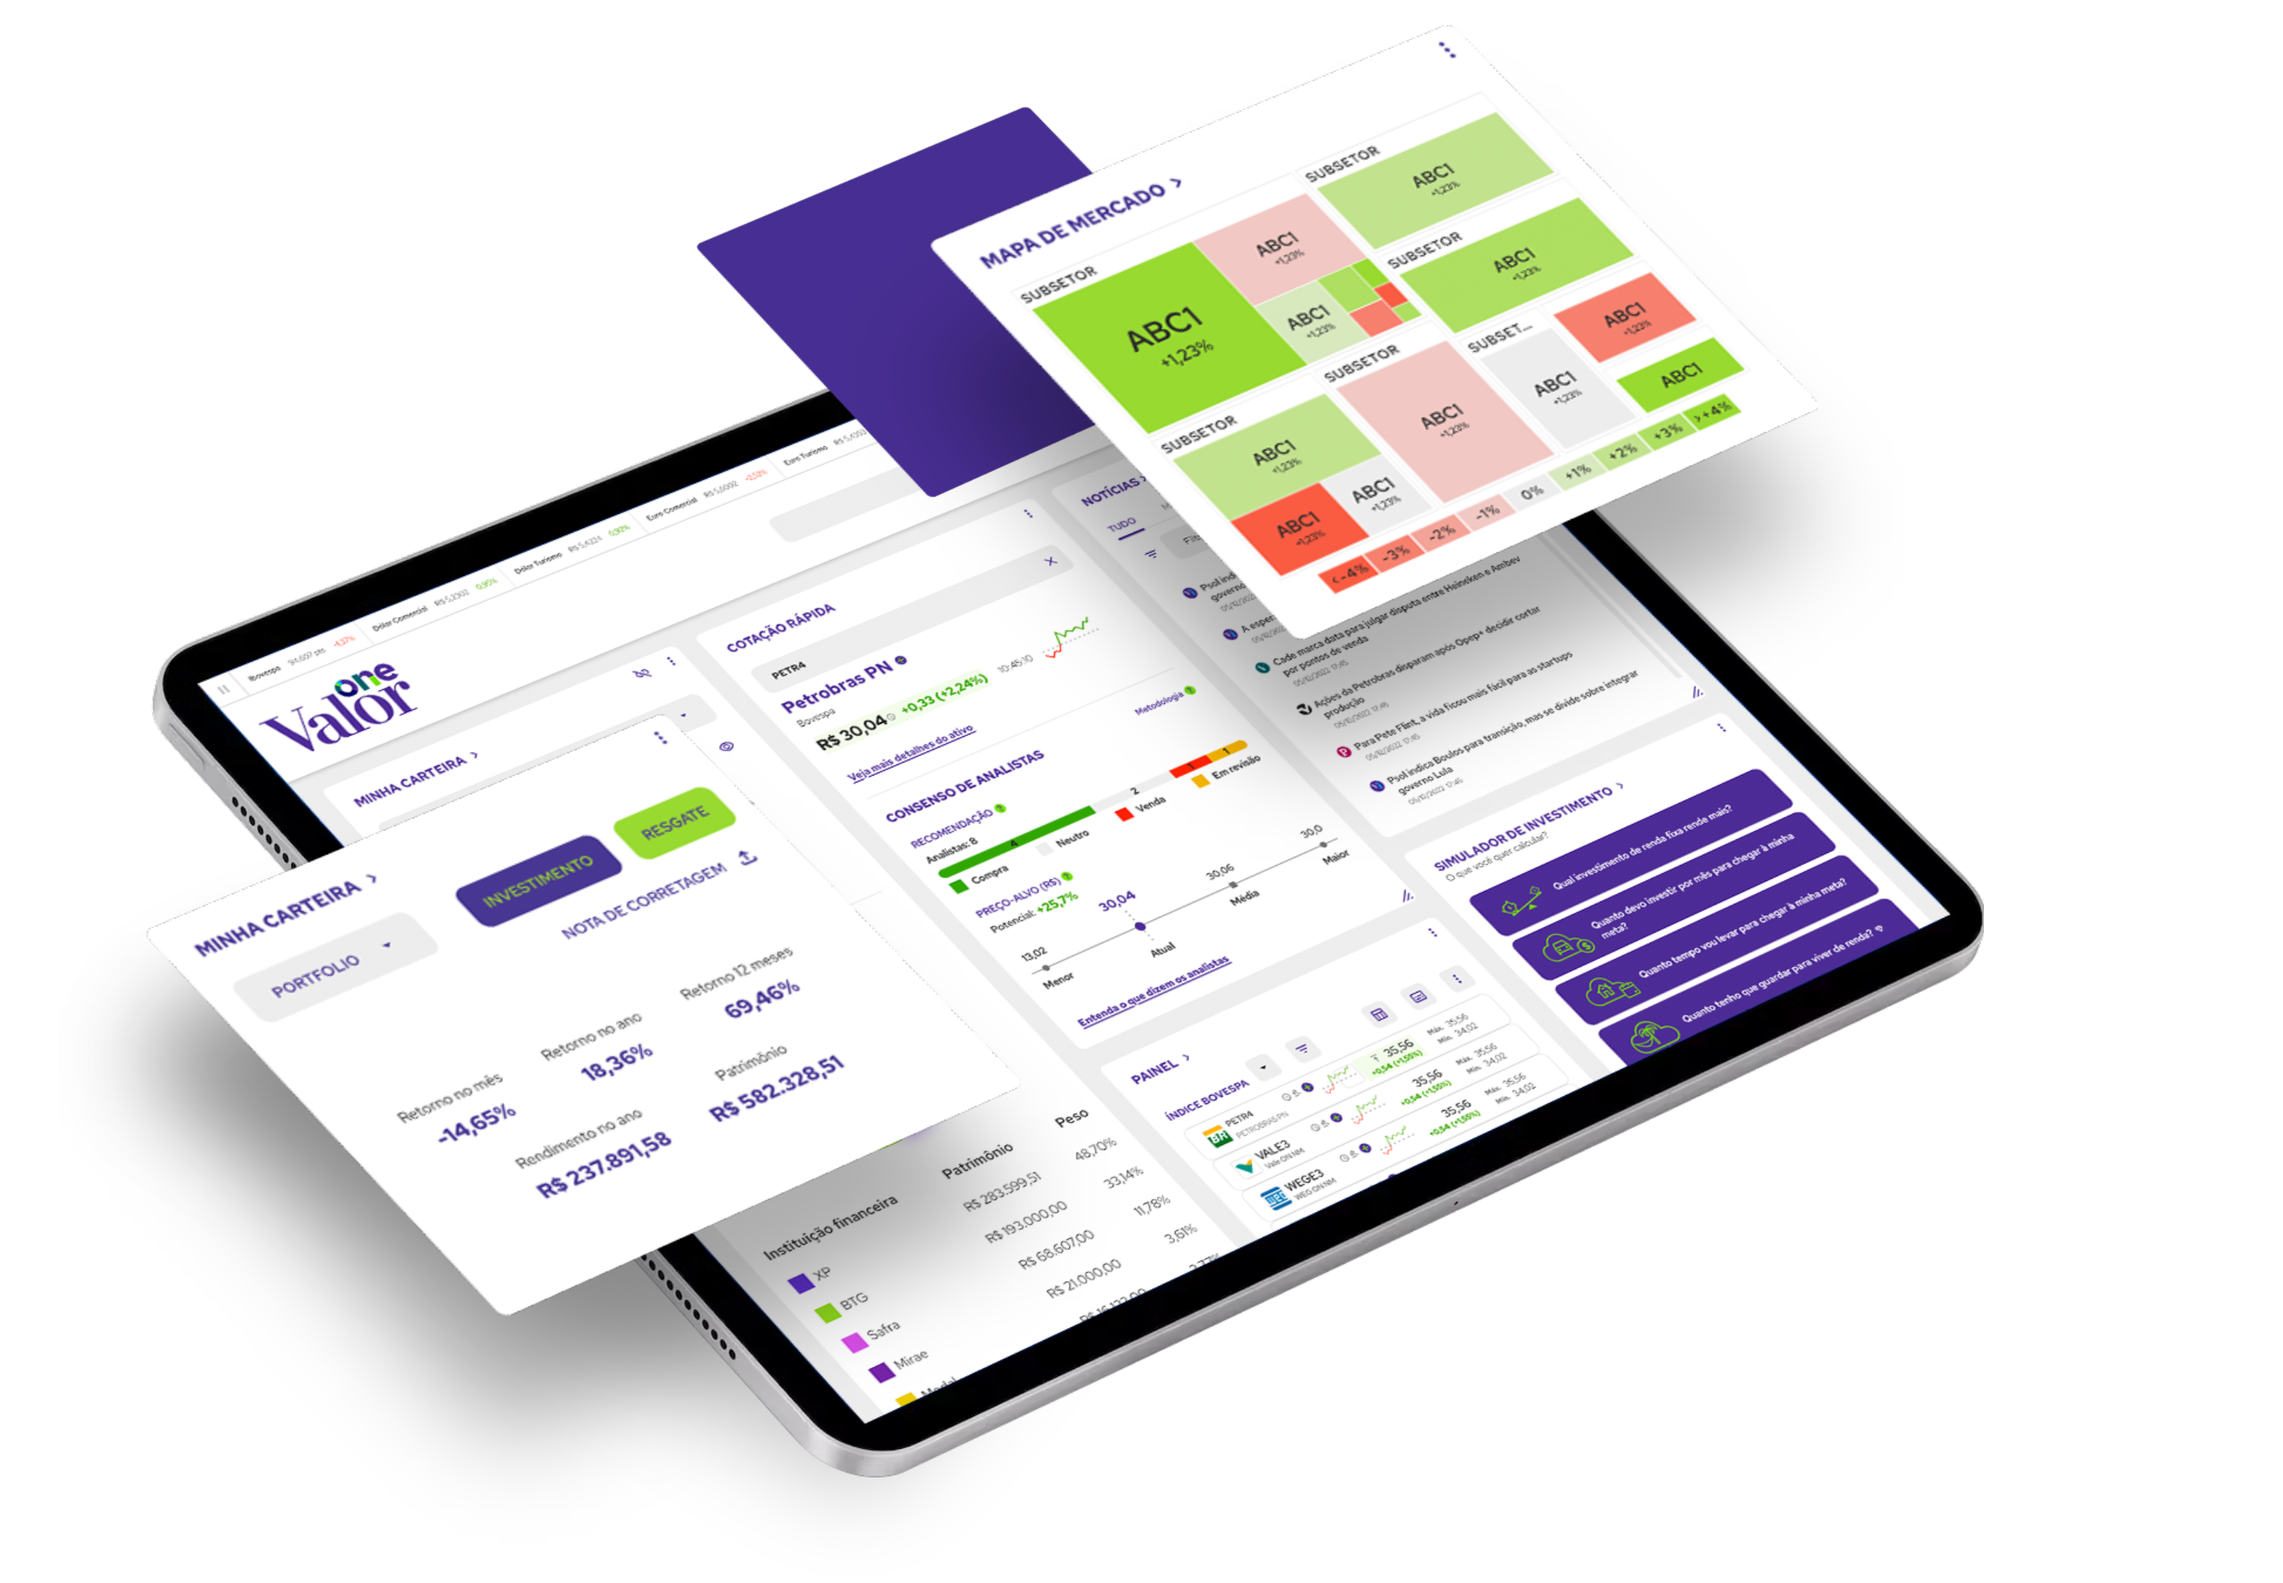
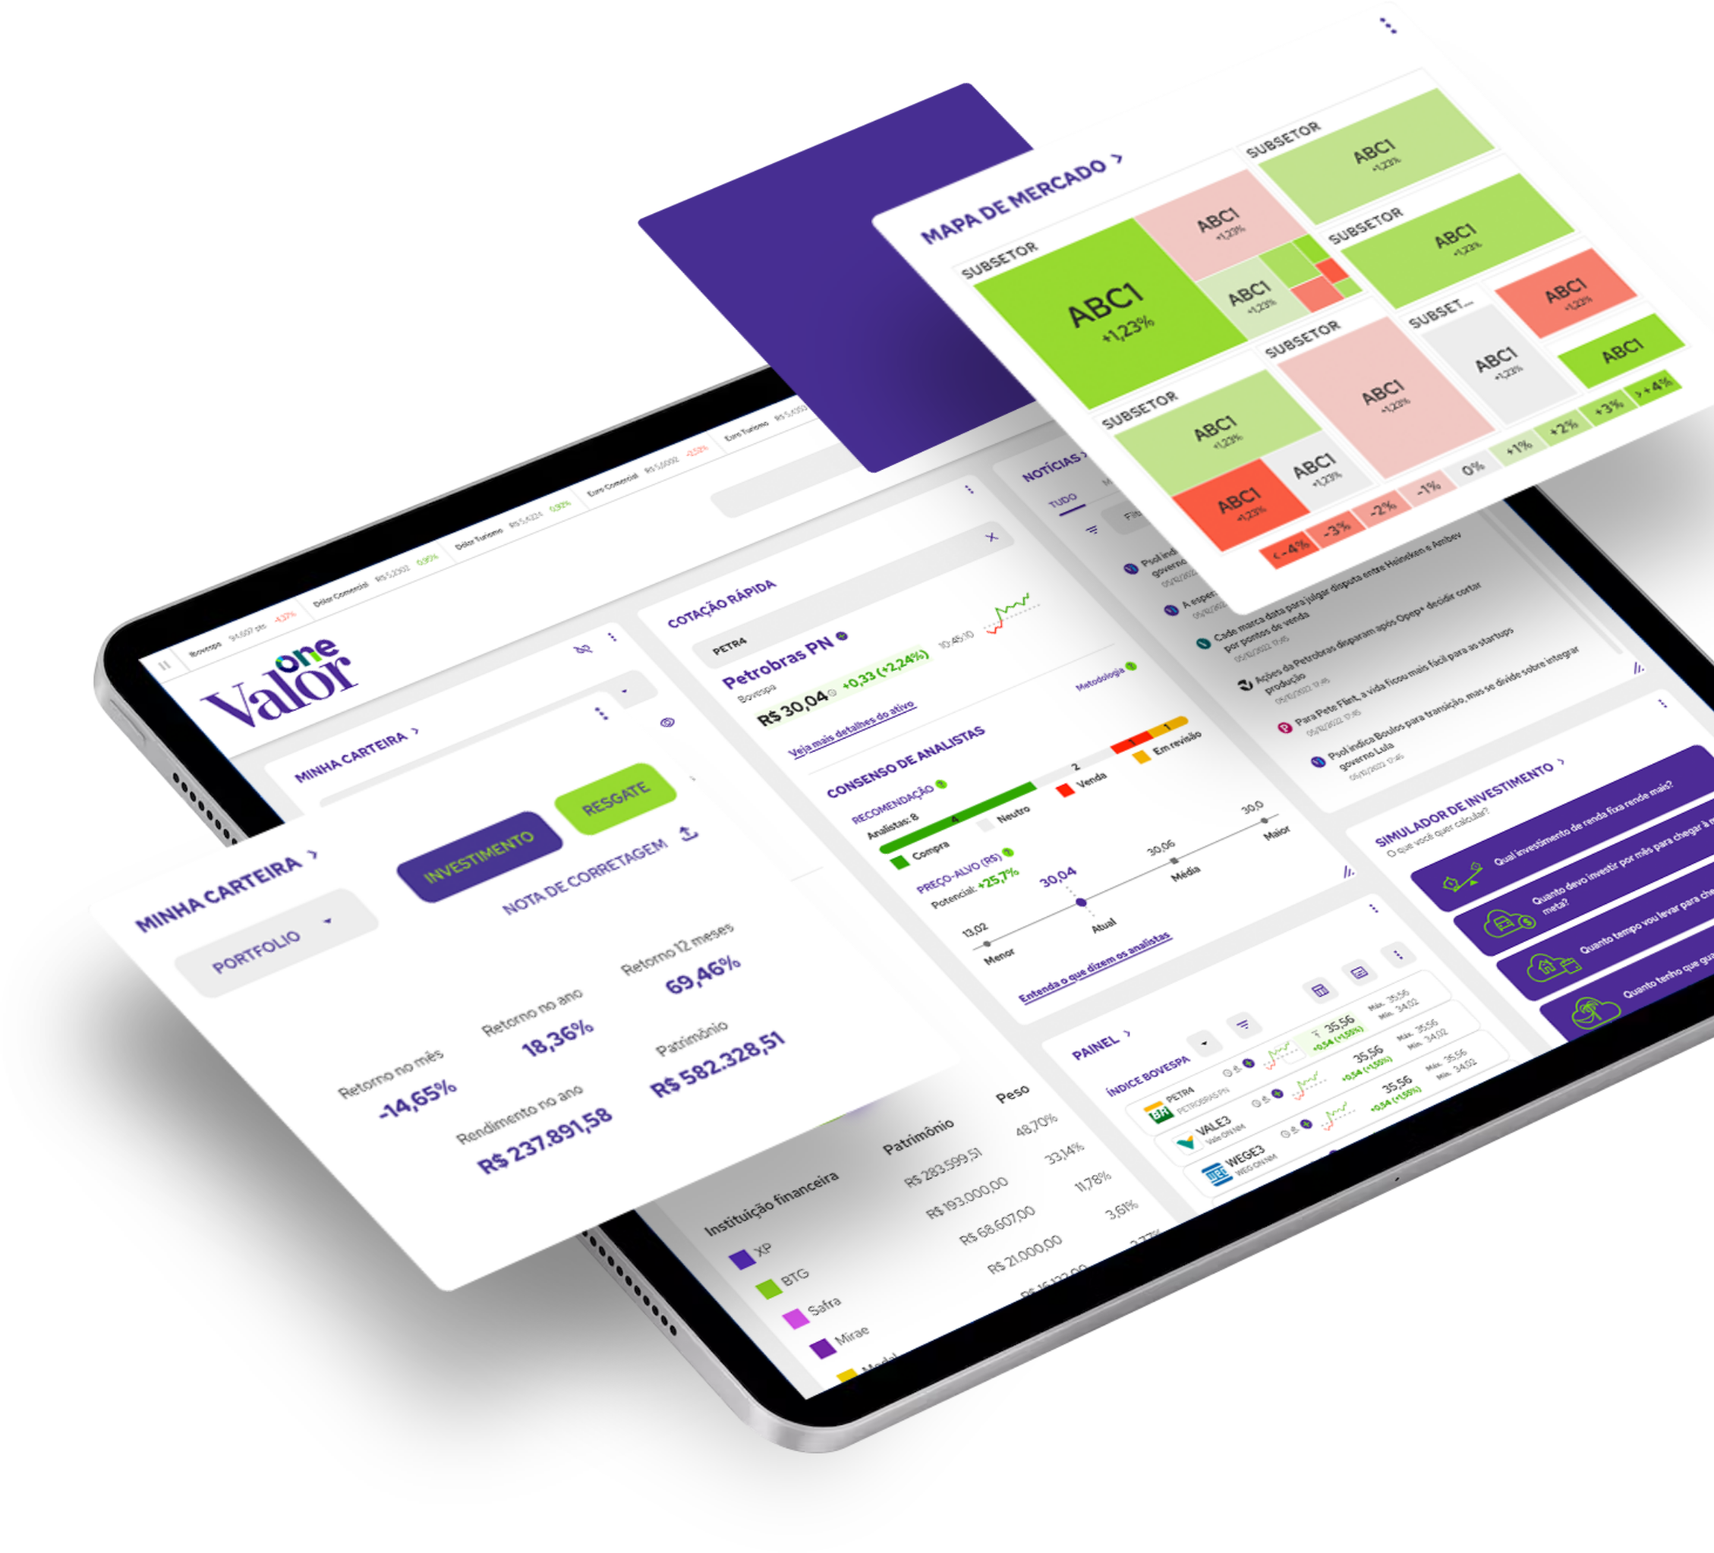
Ajustes Gerais

diff --git a/index.html b/index.html
@@ -101,8 +101,8 @@
             <p class="platform-discovery_experience">
                 Traga mais valor para seus investimentos!</p>
 
-            <!-- <img class="platform-tablet_img" src="./img/Grupo_58.png"
-                alt="Tablet representando a platform de investimentos ValorOne" id="img-interface"> -->
+            <img class="platform-tablet_img" src="./img/Grupo_58.png"
+                alt="Tablet representando a platform de investimentos ValorOne" id="img-interface">
 
             <!-- <p class="platform-discovery_call-meet">
                 QUERO CONHECER O VALOR ONE</p> -->
@@ -163,7 +163,7 @@
                     <i id="left" class="fa-solid fa-angle-left"></i>
                     <div class="cads-content caroucel dragging">
                         <div class="broad-card">
-                            <img class="broad-card_img" draggable="false" src="./img/icons/green/icon_01.svg"
+                            <img class="broad-card_img" draggable="false" src="./img/icons/Grupo471.png"
                                 alt="Cifrao com círculo em volta">
                             <p class="card-goes_top broad-card_txtHover">Simulação</p>
                             <p class="card-goes_middle broad-card_hover">de investimentos:</p>
@@ -176,7 +176,7 @@
                         </div>
 
                         <div class="broad-card">
-                            <img class="broad-card_img" draggable="false" src="./img/icons/green/icon_02.svg" alt="">
+                            <img class="broad-card_img" draggable="false" src="./img/icons/Grupo469.png" alt="">
                             <p class="card-plans_top broad-card_txtHover">Comparação</p>
                             <p class="card-plans_middle broad-card_hover">de ativos:</p>
                             <p class="card-plans_bottom broad-card_txtHover">Com poucos cliques no nosso painel de dados
@@ -191,7 +191,7 @@
 
                         <div class="broad-card">
                             <img class="broad-card_img img_graphic" draggable="false"
-                                src="./img/icons/green/icon_bars_01.svg"
+                                src="./img/icons/Grupo465.png"
                                 alt="Representação simples de gráfico ascendente">
                             <p class="card-progress_top broad-card_txtHover img_graphic">Relatórios e análises</p>
                             <p class="card-progress_middle broad-card_hover">de especialistas:</p>
@@ -205,7 +205,7 @@
                         </div>
 
                         <div class="broad-card">
-                            <img class="broad-card_img" draggable="false" src="./img/Grupo_138.png"
+                            <img class="broad-card_img" draggable="false" src="./img/icons/Grupo464.png"
                                 alt="Desenho simples de celular com balão de notificação">
                             <p class="card-objetives_top broad-card_txtHover">Consolidador de</p>
                             <p class="card-objetives_middle broad-card_hover">carteira inteligente:</p>
@@ -217,7 +217,7 @@
                             </a>
                         </div>
                         <div class="broad-card">
-                            <img class="broad-card_img" draggable="false" src="./img/Grupo_138.png"
+                            <img class="broad-card_img" draggable="false" src="./img/icons/Grupo459.png"
                                 alt="Desenho simples de celular com balão de notificação">
                             <p class="card-objetives_top broad-card_txtHover">Ambiente</p>
                             <p class="card-objetives_middle broad-card_hover">educacional:</p>
@@ -229,7 +229,7 @@
                             </a>
                         </div>
                         <div class="broad-card">
-                            <img class="broad-card_img" draggable="false" src="./img/Grupo_138.png"
+                            <img class="broad-card_img" draggable="false" src="./img/icons/Grupo468.png"
                                 alt="Desenho simples de celular com balão de notificação">
                             <p class="card-objetives_top broad-card_txtHover">Alertas estratégicos</p>
                             <p class="card-objetives_middle broad-card_hover"> & personalizados:</p>
@@ -242,7 +242,7 @@
                             </a>
                         </div>
                         <div class="broad-card last-card highlight-card">
-                            <img class="broad-card_img" draggable="false" src="./img/Grupo_138.png"
+                            <img class="broad-card_img" draggable="false" src="./img/icons/Grupo 495@2x.png"
                                 alt="Desenho simples de celular com balão de notificação">
                             <p class="card-objetives_top broad-card_txtHover">Carteiras </p>
                             <p class="card-objetives_middle broad-card_hover">recomendadas:</p>
@@ -269,7 +269,7 @@
                 <p class="card-news_middle">Trazemos o que é relevante para você e sua carteira.</p>
                 <p class="card-news_bottom">Uma preciosidade para o investidor que saber a importância da informação em
                     primeira mão, no computador e no celular</p>
-                <div class="background-img"></div>
+                <div class="background-img-news"></div>
             </div>
             <div class="background-container-first"></div>
         </div>
@@ -391,7 +391,7 @@
         <div class="slide-container">
             <div class="slide-content">
                 <div class="cards-wrapper caroucel_sell dragging_sell">
-                    <div class="plans-cards">
+                    <div class="plans-cards cards-1">
                         <div class="cards-container">
                             <div class="plans-cards_top">
                                 <div class="top_txt">

diff --git a/styles/plans.css b/styles/plans.css
@@ -1,8 +1,10 @@
 .plans-container {
+    position: relative;
     background-color: var(--purple);
     color: var(--white);
     height: fit-content;
-    padding-top: 12.5rem;
+    padding: 12.5rem 1rem 0;
+    background-image: url(../img/img_planos__.png);
     background-repeat: no-repeat;
     background-position: top;
     background-size: 100% 10rem;
@@ -34,14 +36,20 @@
     border: 2px solid var(--blue-light);
     text-align: center;
     background: var(--purple);
+    margin-bottom: 1rem;
 }
 
 .plans-cards:hover {
     border: 2px solid var(--blue-light);
 }
 
+.plans-cards_one-plans, .top-triangle {
+    font-size: 1.56rem;
+
+}
+
 .plans-cards_one {
-    font-size: 1.56em;
+    font-size: 1.56rem;
     line-height: 2.34rem;
     color: var(--green);
 }
@@ -122,17 +130,16 @@
 
 .plans-register_container {
     position: relative;
-    top: 2%;
+    bottom: -8rem;
     background: var(--green);
     color: var(--purple);
     border-radius: 15px;
-    font-weight: normal;
+    font-weight: 600;
     text-align: left;
     opacity: 1;
-    height: 50vh;
+    height: 60.2vh;
     padding: 2.5rem;
-    margin: 0 1rem;
-    background-image: url(../img/Retângulo_127.png);
+    background-image: url(../img/Retângulo127.png);
     background-repeat: no-repeat;
     background-position: 0em 4em;
 }
@@ -243,7 +250,7 @@
 
     .plans-cards_three {
         padding: 0;
-        margin-top: 2rem;
+        margin-top: 1.5rem;
         text-align: left;
     }
 
@@ -282,9 +289,9 @@
     }
 
     .plans-cards button {
-        width: 11.59rem;
-        padding: 1.5em 0;
-        margin: 2.5rem;
+        width: 13rem;
+        padding: 1.5rem 0;
+        margin: 2rem 0 0;
     }
 
     .plans-cards button:hover {
@@ -463,21 +470,21 @@
     }
 
     .plans-cards {
-        width: 10.6vw;
-        padding: 2.5rem;
+        width: 11vw;
+        padding: 2.5rem 2.5rem 2.13rem 2.5rem;
     }
 
     .cards-2 {
-        height: 107vh;
+        height: 102vh;
     }
 
     .cards-3 {
-        height: 99vh;
+        height: 92vh;
         position: relative;
     }
 
     .cards-4 {
-        height: 85vh;
+        height: 74vh;
         position: relative;
     }
 

diff --git a/styles/platform.css b/styles/platform.css
@@ -3,13 +3,12 @@
 }
 
 .platform-discovery {
-    padding: 3em 0 0rem 0.6em;
+    padding: 3em 0 0 1em;
     line-height: normal;
 }
 
 .platform-discovery_call {
     font-size: 1.5em;
-    padding-right: 0.6em;
     color: var(--purple);
     font-weight: 400;
     line-height: 1.5em;
@@ -22,6 +21,7 @@
 }
 
 .platform-discovery_experience {
+    margin-top: 1rem;
     font-weight: 400;
     color: var(--blue-light);
     line-height: 1.5em;
@@ -30,10 +30,8 @@
 .platform-tablet_img {
     position: absolute;
     z-index: 10;
-    right: -18rem;
-    
-    width: 95%;
-
+    right: 0;
+    width: 95%
 }
 
 .platform-discovery_call-meet {
@@ -55,14 +53,14 @@
 
 .platform-discovery_discovery {
     position: relative;
-    left: 2rem;
+    left: 1rem;
     background-color: var(--purple);
-    padding: 1em 4em;
+    padding: 1em 3em;
     border-radius: 16px;
     font-size: 1em;
     line-height: 1.5em;
     text-align: center;
-    margin: 1em -0.5em 0;
+    margin: 17rem 0 3rem;
 }
 
 .platform-discovery_discovery:hover {
@@ -120,9 +118,10 @@
     }
 
     .platform-tablet_img {
-        width: 91.5625rem;
+        width: 70.5rem;
         height: 63.9375rem;
-        top: 16%;
+        top: 22%;
+        right: 0;
     }
 
     .platform-discovery {
@@ -208,8 +207,7 @@ and (max-device-width: 1920px) {
     }
 
     .platform-tablet {
-        height: 150%;
-        min-height: 145%;
+        min-height: 92rem;
     }
 
     .platform-discovery_call {

diff --git a/styles/advantages.css b/styles/advantages.css
@@ -1,5 +1,5 @@
 .advantages {
-  background-color: var(--gray);
+  background-color: var(--white);
   position: relative;
 }
 
@@ -73,11 +73,14 @@
   text-align: left;
 }
 
+#left, #right{
+  display: none;
+}
 
 .broad-card,
 .card-news {
   background-color: var(--white);
-  border: 1px solid var(--white);
+  border: 1px solid var(--green);
   margin: 4em 1em;
   border-radius: 15px;
   height: fit-content;
@@ -155,7 +158,7 @@
 .card-news {
   background-color: var(--white);
   padding: 2.5rem 2.5rem 0 2.5rem;
-  background-image: url(../img/Retângulo_124.png);
+  background-image: url(../img/Retângulo129.png);
   background-repeat: no-repeat;
 }
 
@@ -215,6 +218,12 @@
 .background-img {
   height: 350px;
 }
+
+.background-img-news {
+  height: 350px;
+}
+
+
 
 .background-container-first {
   background: var(--green);

diff --git a/styles/legacy.css b/styles/legacy.css
@@ -1,5 +1,5 @@
 .legacy-container {
-    background-color: var(--gray);
+    background-color: var(--white);
     padding-top: 5rem;
 }
 
@@ -13,6 +13,15 @@
     font-weight: 400;
     color: var(--purple);
     text-align: center;
+}
+
+.legacy-txt_balloon-txt {
+    font-size: 1rem;
+    line-height: 2.34rem;
+    text-align: left;
+    color: var(--purple);
+    font-weight: normal;
+    margin: 3rem 1rem 2rem;
 }
 
 .legacy-txt_emphasis {
@@ -129,11 +138,7 @@
     .legacy-txt_balloon-txt {
         width: 38.75vw;
         font-size: 1.56rem;
-        line-height: 2.34rem;
-        text-align: left;
-        color: var(--purple);
-        font-weight: normal;
-        margin-top: 3rem;
+        margin: 3rem 0 0 0;
     }
 
     .legacy-txt_emphasis {

diff --git a/styles/fag.css b/styles/fag.css
@@ -32,7 +32,7 @@
 }
 
 .fag-accordion_container {
-  padding: 0 2rem 2rem;
+  padding: 0 1rem 2rem;
 }
 
 .content {

diff --git a/styles/head.css b/styles/head.css
@@ -53,6 +53,7 @@
     top: 100%;
     right: 0%;
     border: 2px solid var(--gray);
+    z-index: 999;
 }
 
 
